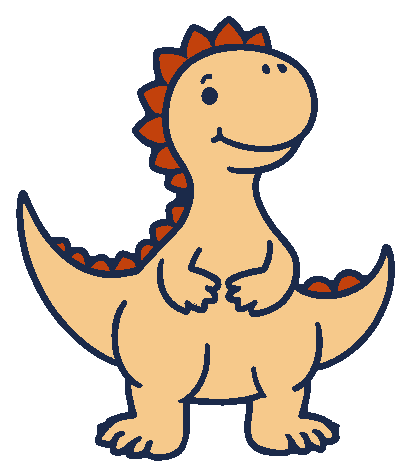
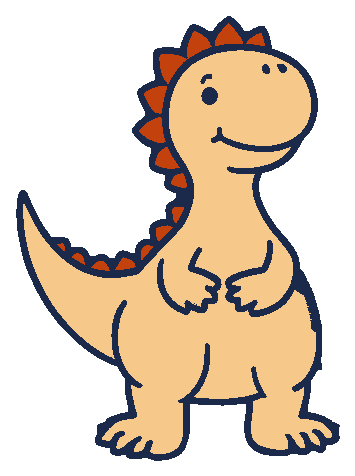
Dino mit nur einem Schwanz
Die Vorlage aus „Mal mit mir!“ hat rechts hinter dem Bauch einen zweiten
Schwanz. Der ist entfernt und die Körperlinie geschlossen – im Maskottchen
und im Ausmalbild.

Claude-Session: https://claude.ai/code/session_01D9nXjvf7fAvtFayC14hCYs

Changed region(s): [[0.031, 0.0294, 0.9606, 0.9706], [0.5577, 0.5, 0.5887, 0.5294]]

diff --git a/src/data/motifs.js b/src/data/motifs.js
@@ -161,7 +161,7 @@ export const MOTIFS = [
   "books": [
    "spass"
   ],
-  "n": 18,
+  "n": 16,
   "lvl": 2,
   "src": "assets/motifs/s_dino.png"
  },
